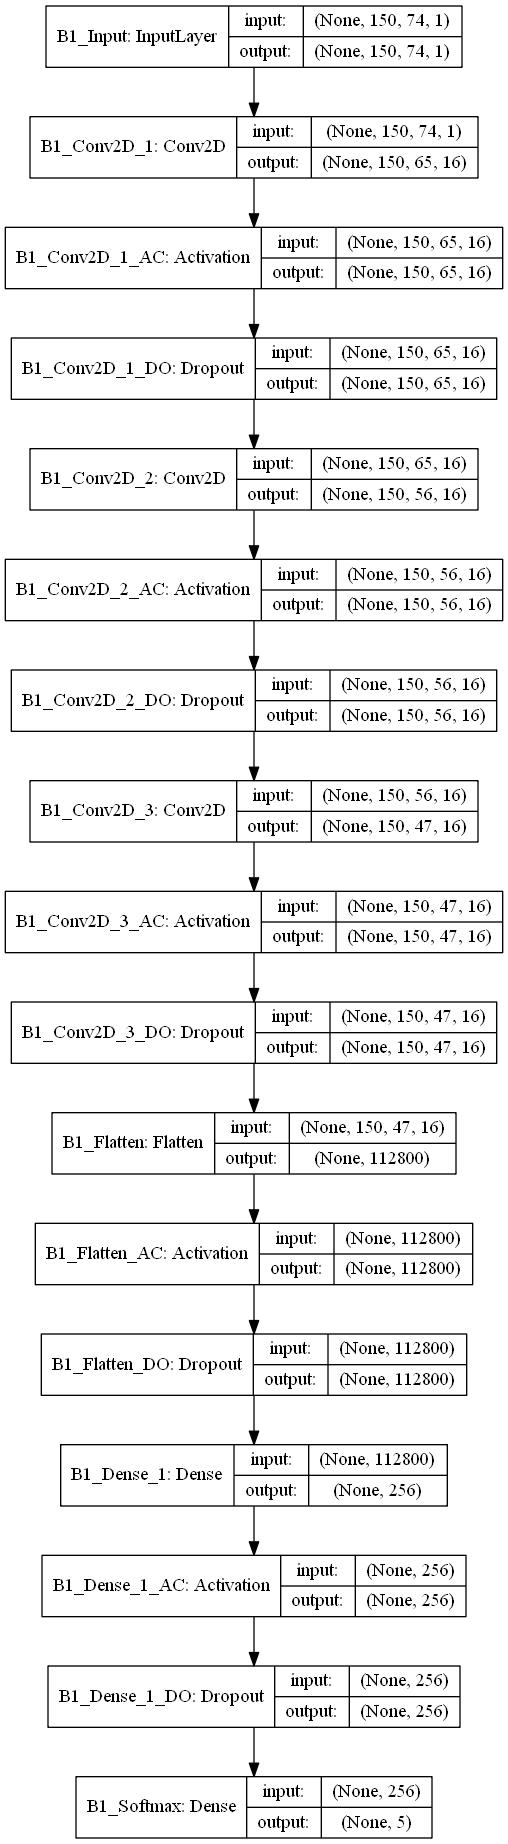
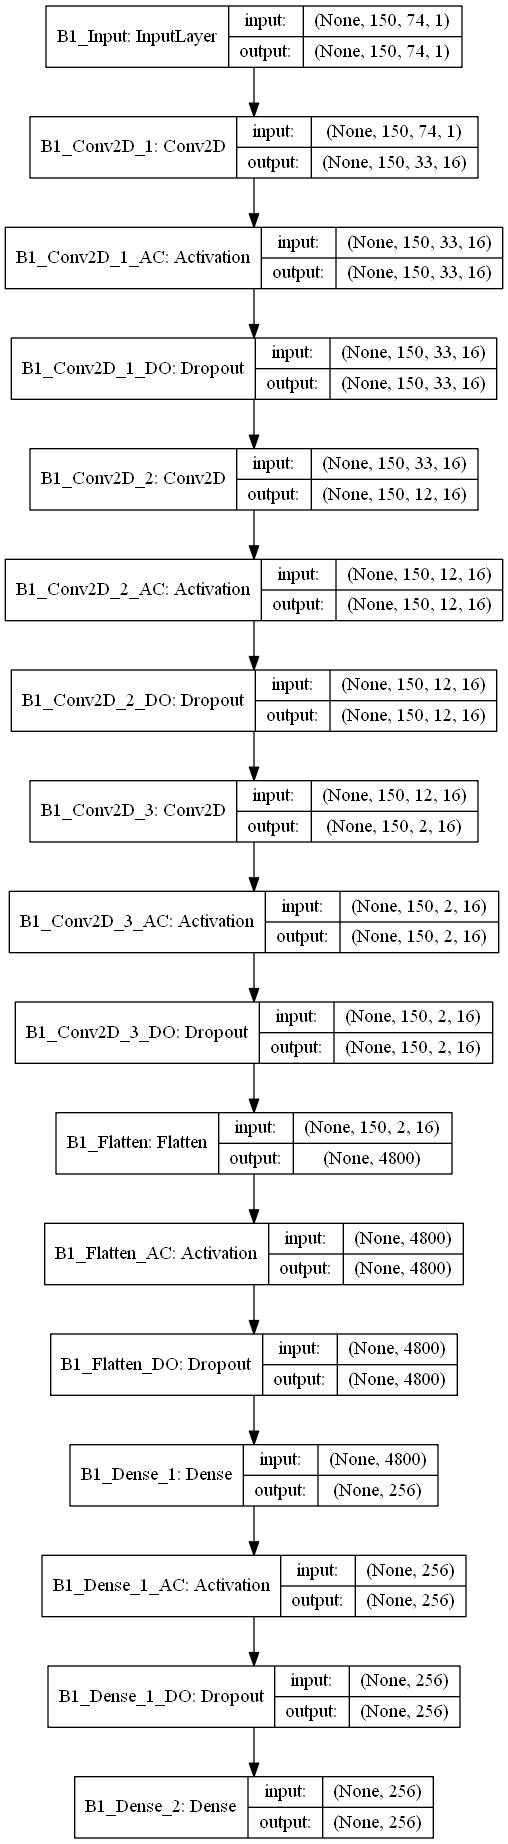
merge model finalize

diff --git a/Project_DNN/scripts/models.py b/Project_DNN/scripts/models.py
@@ -4,6 +4,8 @@ from keras.models import Model
 from keras.layers import *
 from keras.optimizers import RMSprop, Adam
 from keras.utils import plot_model # for model description png
+from keras.losses import *
+from keras.activations import relu
 
 import dataFormater as DFormat
 import interfaceUtils as utils
@@ -31,25 +33,28 @@ def Model_B1():
     branch1_input = Input(shape=(150, 74, 1), name='B1_Input')
     b1 = Conv2D(filters=16,
             kernel_size=(1, 10),
-            strides=(1, 1), 
+            strides=(1, 2), 
             data_format="channels_last",
             name = 'B1_Conv2D_1')(branch1_input)
     b1 = _add_Activation_Dropout(b1, b1_dropout)
     b1 = Conv2D(filters=16,
             kernel_size=(1, 10),
-            strides=(1, 1), 
+            strides=(1, 2), 
             name = 'B1_Conv2D_2')(b1)
     b1 = _add_Activation_Dropout(b1, b1_dropout)
     b1 = Conv2D(filters=16,
             kernel_size=(1, 10),
-            strides=(1, 1), 
+            strides=(1, 2), 
             name = 'B1_Conv2D_3')(b1)
     b1 = _add_Activation_Dropout(b1, b1_dropout)
     b1 = Flatten(name='B1_Flatten')(b1)
     b1 = _add_Activation_Dropout(b1, b1_dropout)
     b1 = Dense(256, name='B1_Dense_1')(b1)
     b1 = _add_Activation_Dropout(b1, b1_dropout)
-    branch1_output = Dense(define.LABEL_SIZE, activation='softmax', name='B1_Softmax')(b1)
+    b1 = Dense(256, name='B1_Dense_2')(b1)
+    branch1_output = b1
+    #b1 = _add_Activation_Dropout(b1, b1_dropout)
+    #branch1_output = Dense(define.LABEL_SIZE, activation='softmax', name='B1_Softmax')(b1)
     
     adma = Adam(lr=b1_learningrate)
 
@@ -63,11 +68,11 @@ def Model_B2():
     '''
     branch 2 (roi cnn+lstm branch)
     '''
-    b2_dropout = 0.01
-    b2_learningRate = 5e-5
+    b2_dropout = 0.025
+    b2_learningRate = 1e-4
 
     branch2_input = Input(shape=(90, 100, 100, 3), name='B2_Input')
-    b2 = TimeDistributed(Conv2D(filters=32,
+    b2 = TimeDistributed(Conv2D(filters=16,
                                 kernel_size=5,
                                 strides=1,
                                 padding='same',
@@ -76,14 +81,14 @@ def Model_B2():
                                 ), name='B2_Conv2D_1')(branch2_input)
     b2 = TimeDistributed(MaxPool2D(), name='B2_MaxPool2D_1')(b2)
     b2 = _add_Activation_Dropout_TD(b2, b2_dropout)
-    b2 = TimeDistributed(Conv2D(filters=32,
+    b2 = TimeDistributed(Conv2D(filters=16,
                                 kernel_size=5,
                                 strides=1,
                                 padding='same',
                                 activation='relu',), name='B2_Conv2D_2')(b2)
     b2 = TimeDistributed(MaxPool2D(), name='B2_MaxPool2D_2')(b2)
     b2 = _add_Activation_Dropout_TD(b2, b2_dropout)
-    b2 = TimeDistributed(Conv2D(filters=32,
+    b2 = TimeDistributed(Conv2D(filters=16,
                                 kernel_size=5,
                                 strides=1,
                                 padding='same',
@@ -91,14 +96,18 @@ def Model_B2():
     b2 = TimeDistributed(MaxPool2D(), name='B2_MaxPool2D_3')(b2)
     b2 = _add_Activation_Dropout_TD(b2, b2_dropout)
     b2 = TimeDistributed(Flatten(), name="B2_Flatten")(b2)
-    b2 = TimeDistributed(Dense(512, activation='relu'), name="B2_Dense_1")(b2)
+    b2 = TimeDistributed(Dense(256, activation='relu'), name="B2_Dense_1")(b2)
     b2 = TimeDistributed(Dropout(b2_dropout), name="B2_Dense_1_DO")(b2)
-    b2 = TimeDistributed(Dense(512, activation='relu'), name="B2_Dense_2")(b2)
+    b2 = TimeDistributed(Dense(256, activation='relu'), name="B2_Dense_2")(b2)
     b2 = TimeDistributed(Dropout(b2_dropout), name="B2_Dense_2_DO")(b2)
-    b2 = LSTM(512, dropout=b2_dropout, name='B2_LSTM_1')(b2)
+    b2 = LSTM(256, dropout=b2_dropout, name='B2_LSTM_1')(b2)
+    branch2_output = b2
     b2 = Dense(256, activation='relu', name='B2_Dense_3')(b2)
     b2 = Dropout(b2_dropout, name='B2_Dense_3_DO')(b2)
-    branch2_output = Dense(define.LABEL_SIZE, activation='softmax', name='B2_Softmax')(b2)
+    b2 = Dense(256, activation='relu', name='B2_Dense_4')(b2)
+    branch2_output = b2
+    #b2 = Dropout(b2_dropout, name='B2_Dense_4_DO')(b2)
+    #branch2_output = Dense(define.LABEL_SIZE, activation='softmax', name='B2_Softmax')(b2)
 
     rms = RMSprop(lr=b2_learningRate) # lr 중요
 
@@ -111,18 +120,25 @@ def Model_B2():
 def Model_M1(b1, b2):
     '''
     Merge 1 (b1 + b2)
+    # comment
+      lr=1e-4로 최소 epoch 60번은 돌려야 2,3을 구분할 수 있더라
     '''
-    m1_dropout = 0.01
-    m1_learningRate = 5e-5
-    
-    x = Add()([b1.outputs[0], b2.outputs[0]])
-    x = Dense(128, activation='relu')(x)
-    x = Dropout(m1_dropout)(x)
-    x = Dense(128, activation='relu')(x)
-    x = Dropout(m1_dropout)(x)
-    merge1_output = Dense(define.LABEL_SIZE, activation='softmax', name='M1_Softmax')(x)
+    #m1_dropout = 0.5
+    m1_learningRate = 1e-4
+    #decay_rate = m1_learningRate / 20 # lr/epoches
+    #decay_rate = 0
+    relu_alpha = 0.25
 
-    rms = RMSprop(lr=m1_learningRate) # lr 중요
+    x = Concatenate()([b1.outputs[0], b2.outputs[0]])
+    x = Dense(512)(x)
+    x = LeakyReLU(relu_alpha)(x)
+    #x = Dropout(m1_dropout)(x)
+    x = Dense(512)(x)
+    x = LeakyReLU(relu_alpha)(x)
+    #x = Dropout(m1_dropout)(x)
+    merge1_output = Dense(define.LABEL_SIZE, activation='softmax', name='M1_Softmax')(x)
+    
+    rms = RMSprop(lr=m1_learningRate)
 
     # Model compile
     # model.compile(loss_weights={'main_output': 1., 'aux_output': 0.2})

diff --git a/Project_DNN/do_Learning.py b/Project_DNN/do_Learning.py
@@ -31,61 +31,48 @@ path.ifNoDirThanMakeDir('weight')
 # configs
 epochs = util.inputInt('How many epochs?')
 b1_batch_size = 15 # GPU 메모리 부족으로 Batch_size에 한계 있음
-b2_batch_size = 4
-m1_batch_size = 4
+b2_batch_size = 15
+m1_batch_size = 15
 isLoadWeight = util.inputInt('Load weight? (1 to yes)')
 overwrite = True
-isGuidenceTrain = util.inputInt('Guidence Train? (1 to yes)')
 
 # load dataset
 util.showProcess('Loading dataset')
 dirPath_train = path.get('data') + '\\ConvLSTM_train'
 dirPath_test = path.get('data') + '\\ConvLSTM_test'
 
-print('Loading Train Data ...')
+print('Loading Train Samples : ')
 spointList_train, roiSampleList_train, labelList_train = \
     df.ROI_loadDataListAll(dirPath_train, isShow=False, isShuffle=False)
-print('Loading Test Data ...')
+print('Loading Test Samples : ')
 spointList_test, roiSampleList_test, labelList_test = \
     df.ROI_loadDataListAll(dirPath_test, isShow=False, isShuffle=False)
 
 # write data plot graph
-print('Writing Data Plot Graph ...')
 dp.plotSpointDataList(dirPath_train, 2, True, False, True, path.get('img') + '\\d_graph.jpg')
 dp.plotSpointDataList(dirPath_train, 2, False, True, True, path.get('img') + '\\d_image.jpg')
 
 # make model
+util.showProcess('Model Generating')
 b1 = models.Model_B1()
+print('B1 done')
 b2 = models.Model_B2()
+print('B2 done')
 m1 = models.Model_M1(b1, b2)
+print('M1 done')
+m1.summary()
 
 # plot to file
-util.showProcess('Saving Model Description')
-models.saveModelDescription(b1, path.get('img'), True)
-models.saveModelDescription(b2, path.get('img'), True)
-models.saveModelDescription(m1, path.get('img'), True)
+models.saveModelDescription(b1, path.get('img'), False)
+models.saveModelDescription(b2, path.get('img'), False)
+models.saveModelDescription(m1, path.get('img'), False)
 
 # Load Weight
 if isLoadWeight == 1:
     util.showProcess('Loading Weight')
-    models.loadWeight(b1, path.get('weight'))
-    models.loadWeight(b2, path.get('weight'))
     models.loadWeight(m1, path.get('weight'))
 
 # Train
-if isGuidenceTrain == 1:
-    util.showProcess('Train B1')
-    b1.fit(spointList_train, labelList_train,
-        epochs=int(10),
-        verbose=1,
-        batch_size=b1_batch_size)
-        
-    util.showProcess('Train B2')
-    b2.fit(roiSampleList_train, labelList_train,
-        epochs=int(10),
-        verbose=1,
-        batch_size=b2_batch_size)
-
 util.showProcess('Train M1')
 m1.fit([spointList_train, roiSampleList_train], [labelList_train],
     epochs=int(epochs),
@@ -100,23 +87,7 @@ print('Test score:', score)
 print('Test accuracy:', acc)
 
 # Test
-util.showProcess('Test b1')
-accuracy = train.calculateAccuracy(spointList_test,
-                                   labelList_test,
-                                   len(labelList_test),
-                                   b1, verbose=1,
-                                   batch_size=b1_batch_size)
-print('Accuracy: ' + str(accuracy))
-
-util.showProcess('Test b2')
-accuracy = train.calculateAccuracy(roiSampleList_test,
-                                   labelList_test,
-                                   len(labelList_test),
-                                   b2, verbose=1,
-                                   batch_size=b2_batch_size)
-print('Accuracy: ' + str(accuracy))
-
-util.showProcess('Test m1')
+util.showProcess('Test M1')
 accuracy = train.calculateAccuracy([spointList_test, roiSampleList_test],
                                    labelList_test,
                                    len(labelList_test),
@@ -127,8 +98,6 @@ print('Accuracy: ' + str(accuracy))
 # Write Weight
 if overwrite:
     util.showProcess('Saving Weight')
-    models.saveWeight(b1, path.get('weight'))
-    models.saveWeight(b2, path.get('weight'))
     models.saveWeight(m1, path.get('weight'))
 
 sess.close()

diff --git a/Project_DNN/scripts/train.py b/Project_DNN/scripts/train.py
@@ -8,15 +8,25 @@ def calculateAccuracy(dataList, labelList, size, model, verbose, batch_size):
     '''print(model.predict(x=dataList, verbose=verbose, batch_size=batch_size))
     '''
     predicted = model.predict(x=dataList, verbose=verbose, batch_size=batch_size)
-    predicted_fit = np.argmax(predicted, 1)
+    predicted_oneHot = np.argmax(predicted, 1)
     predicteShouldBeList = np.argmax(labelList, 1)
 
-    print(predicted)
+    print('Percent:')
+    _printFloatViewable(predicted)
     print('Source:')
     print(predicteShouldBeList)
     print('Predicted:')
-    print(predicted_fit)
+    print(predicted_oneHot)
 
-    accuracy = np.sum(np.equal(predicted_fit, predicteShouldBeList)) / size
+    accuracy = np.sum(np.equal(predicted_oneHot, predicteShouldBeList)) / size
 
     return accuracy
+
+def _printFloatViewable(plist):
+    sampleSize=len(plist)
+    labelSize=len(plist[0])
+    for i in range(sampleSize):
+        for j in range(labelSize):
+            plist[i][j] = round(plist[i][j], 2)
+    
+    print(plist)

diff --git a/README.md b/README.md
@@ -42,6 +42,8 @@
 
 - [Gradient Descent Algorithm Overview](http://shuuki4.github.io/deep%20learning/2016/05/20/Gradient-Descent-Algorithm-Overview.html)
 
+- [lr Decay, Optimizers](https://towardsdatascience.com/learning-rate-schedules-and-adaptive-learning-rate-methods-for-deep-learning-2c8f433990d1)
+
 ## CV Studies
 
 - [at vs pointer](http://swprog.tistory.com/entry/OpenCV-at%EA%B3%BC-%ED%8F%AC%EC%9D%B8%ED%84%B0-%EC%82%AC%EC%9A%A9%EA%B0%84%EC%9D%98-%EC%8B%9C%EA%B0%84-%EC%B0%A8%EC%9D%B4)
